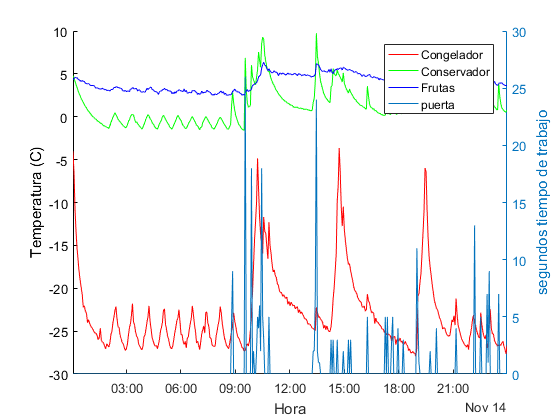
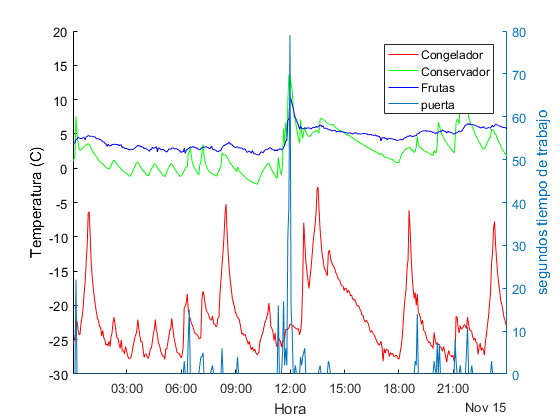
add modifications into xsl

diff --git a/hacebrep/genReporte.html b/hacebrep/genReporte.html
@@ -6,7 +6,7 @@
    <!--
 This HTML was auto-generated from MATLAB code.
 To make changes, update the MATLAB code and republish this document.
-      --><title>genReporte</title><meta name="generator" content="MATLAB 9.0"><link rel="schema.DC" href="http://purl.org/dc/elements/1.1/"><meta name="DC.date" content="2016-11-15"><meta name="DC.source" content="genReporte.m"><style type="text/css">
+      --><title>genReporte</title><meta name="generator" content="MATLAB 9.0"><link rel="schema.DC" href="http://purl.org/dc/elements/1.1/"><meta name="DC.date" content="2016-11-16"><meta name="DC.source" content="genReporte.m"><style type="text/css">
 html,body,div,span,applet,object,iframe,h1,h2,h3,h4,h5,h6,p,blockquote,pre,a,abbr,acronym,address,big,cite,code,del,dfn,em,font,img,ins,kbd,q,s,samp,small,strike,strong,sub,sup,tt,var,b,u,i,center,dl,dt,dd,ol,ul,li,fieldset,form,label,legend,table,caption,tbody,tfoot,thead,tr,th,td{margin:0;padding:0;border:0;outline:0;font-size:100%;vertical-align:baseline;background:transparent}body{line-height:1}ol,ul{list-style:none}blockquote,q{quotes:none}blockquote:before,blockquote:after,q:before,q:after{content:'';content:none}:focus{outine:0}ins{text-decoration:none}del{text-decoration:line-through}table{border-collapse:collapse;border-spacing:0}
 
 html { min-height:100%; margin-bottom:1px; }
@@ -66,10 +66,10 @@ table td { padding:7px 5px; text-align:left; vertical-align:top; border:1px soli
 
 
 
-  </style></head><body><div class="content"><h2>Contents</h2><div><ul><li><a href="#3">Temperaturas en Congelador</a></li><li><a href="#4">Temperaturas en Conservador</a></li><li><a href="#5">Temperaturas en Conservador zona Frutas</a></li><li><a href="#6">Promedios Totales</a></li><li><a href="#7">Diagrama en torta de trabajo compresor</a></li><li><a href="#8">Consolidado del d&iacute;a anterior</a></li><li><a href="#9">Comparaci&oacute;n de temperaturas con apertura de puertas</a></li><li><a href="#10">Comparaci&oacute;n de temperaturas con trabajo de compresor</a></li><li><a href="#11">Comparaci&oacute;n de temperaturas con resistencia de descongelamiento</a></li><li><a href="#12">Porcentaje de trabajo Compresor</a></li></ul></div><h2>Temperaturas en Congelador<a name="3"></a></h2><pre class="codeoutput">Temperatura promedio en congelador -19.4011 &deg;C
-</pre><img vspace="5" hspace="5" src="genReporte_01.png" alt=""> <h2>Temperaturas en Conservador<a name="4"></a></h2><pre class="codeoutput">Temperatura promedio en conservador 4.0269  &deg;C
-</pre><img vspace="5" hspace="5" src="genReporte_02.png" alt=""> <h2>Temperaturas en Conservador zona Frutas<a name="5"></a></h2><pre class="codeoutput">Temperatura promedio en compartimento de frutas 5.8262 &deg;C
-</pre><img vspace="5" hspace="5" src="genReporte_03.png" alt=""> <h2>Promedios Totales<a name="6"></a></h2><img vspace="5" hspace="5" src="genReporte_04.png" alt=""> <h2>Diagrama en torta de trabajo compresor<a name="7"></a></h2><img vspace="5" hspace="5" src="genReporte_05.png" alt=""> <h2>Consolidado del d&iacute;a anterior<a name="8"></a></h2><h2>Comparaci&oacute;n de temperaturas con apertura de puertas<a name="9"></a></h2><img vspace="5" hspace="5" src="genReporte_06.png" alt=""> <h2>Comparaci&oacute;n de temperaturas con trabajo de compresor<a name="10"></a></h2><img vspace="5" hspace="5" src="genReporte_07.png" alt=""> <h2>Comparaci&oacute;n de temperaturas con resistencia de descongelamiento<a name="11"></a></h2><img vspace="5" hspace="5" src="genReporte_08.png" alt=""> <h2>Porcentaje de trabajo Compresor<a name="12"></a></h2><img vspace="5" hspace="5" src="genReporte_09.png" alt=""> <p class="footer"><br><a href="http://www.mathworks.com/products/matlab/">Published with MATLAB&reg; R2016a</a><br></p></div><!--
+  </style></head><body><div class="content"><h2>Contents</h2><div><ul><li><a href="#3">Temperaturas en Congelador</a></li><li><a href="#4">Temperaturas en Conservador</a></li><li><a href="#5">Temperaturas en Conservador zona Frutas</a></li><li><a href="#6">Promedios Totales</a></li><li><a href="#7">Diagrama en torta de trabajo compresor</a></li><li><a href="#8">Consolidado del d&iacute;a anterior</a></li><li><a href="#9">Comparaci&oacute;n de temperaturas con apertura de puertas</a></li><li><a href="#10">Comparaci&oacute;n de temperaturas con trabajo de compresor</a></li><li><a href="#11">Comparaci&oacute;n de temperaturas con resistencia de descongelamiento</a></li><li><a href="#12">Porcentaje de trabajo Compresor</a></li></ul></div><h2>Temperaturas en Congelador<a name="3"></a></h2><pre class="codeoutput">Temperatura promedio en congelador -19.6852 &deg;C
+</pre><img vspace="5" hspace="5" src="genReporte_01.png" alt=""> <h2>Temperaturas en Conservador<a name="4"></a></h2><pre class="codeoutput">Temperatura promedio en conservador 3.5913  &deg;C
+</pre><img vspace="5" hspace="5" src="genReporte_02.png" alt=""> <h2>Temperaturas en Conservador zona Frutas<a name="5"></a></h2><pre class="codeoutput">Temperatura promedio en compartimento de frutas 5.7019 &deg;C
+</pre><img vspace="5" hspace="5" src="genReporte_03.png" alt=""> <h2>Promedios Totales<a name="6"></a></h2><img vspace="5" hspace="5" src="genReporte_04.png" alt=""> <h2>Diagrama en torta de trabajo compresor<a name="7"></a></h2><img vspace="5" hspace="5" src="genReporte_05.png" alt=""> <h2>Consolidado del d&iacute;a anterior<a name="8"></a></h2><h2>Comparaci&oacute;n de temperaturas con apertura de puertas<a name="9"></a></h2><img vspace="5" hspace="5" src="genReporte_06.png" alt=""> <h2>Comparaci&oacute;n de temperaturas con trabajo de compresor<a name="10"></a></h2><img vspace="5" hspace="5" src="genReporte_07.png" alt=""> <h2>Comparaci&oacute;n de temperaturas con resistencia de descongelamiento<a name="11"></a></h2><img vspace="5" hspace="5" src="genReporte_08.png" alt=""> <h2>Porcentaje de trabajo Compresor<a name="12"></a></h2><img vspace="5" hspace="5" src="genReporte_09.png" alt=""> <p class="footer"><br><a href="http://www.forsatingenieria.com/servicios">by Forsat Ingenieria&reg; R</a><br></p></div><!--
 ##### SOURCE BEGIN #####
 
 close all
@@ -385,5 +385,8 @@ hold off
 
 %close all
 %%
+
+close all
+clc
 ##### SOURCE END #####
 --></body></html>
